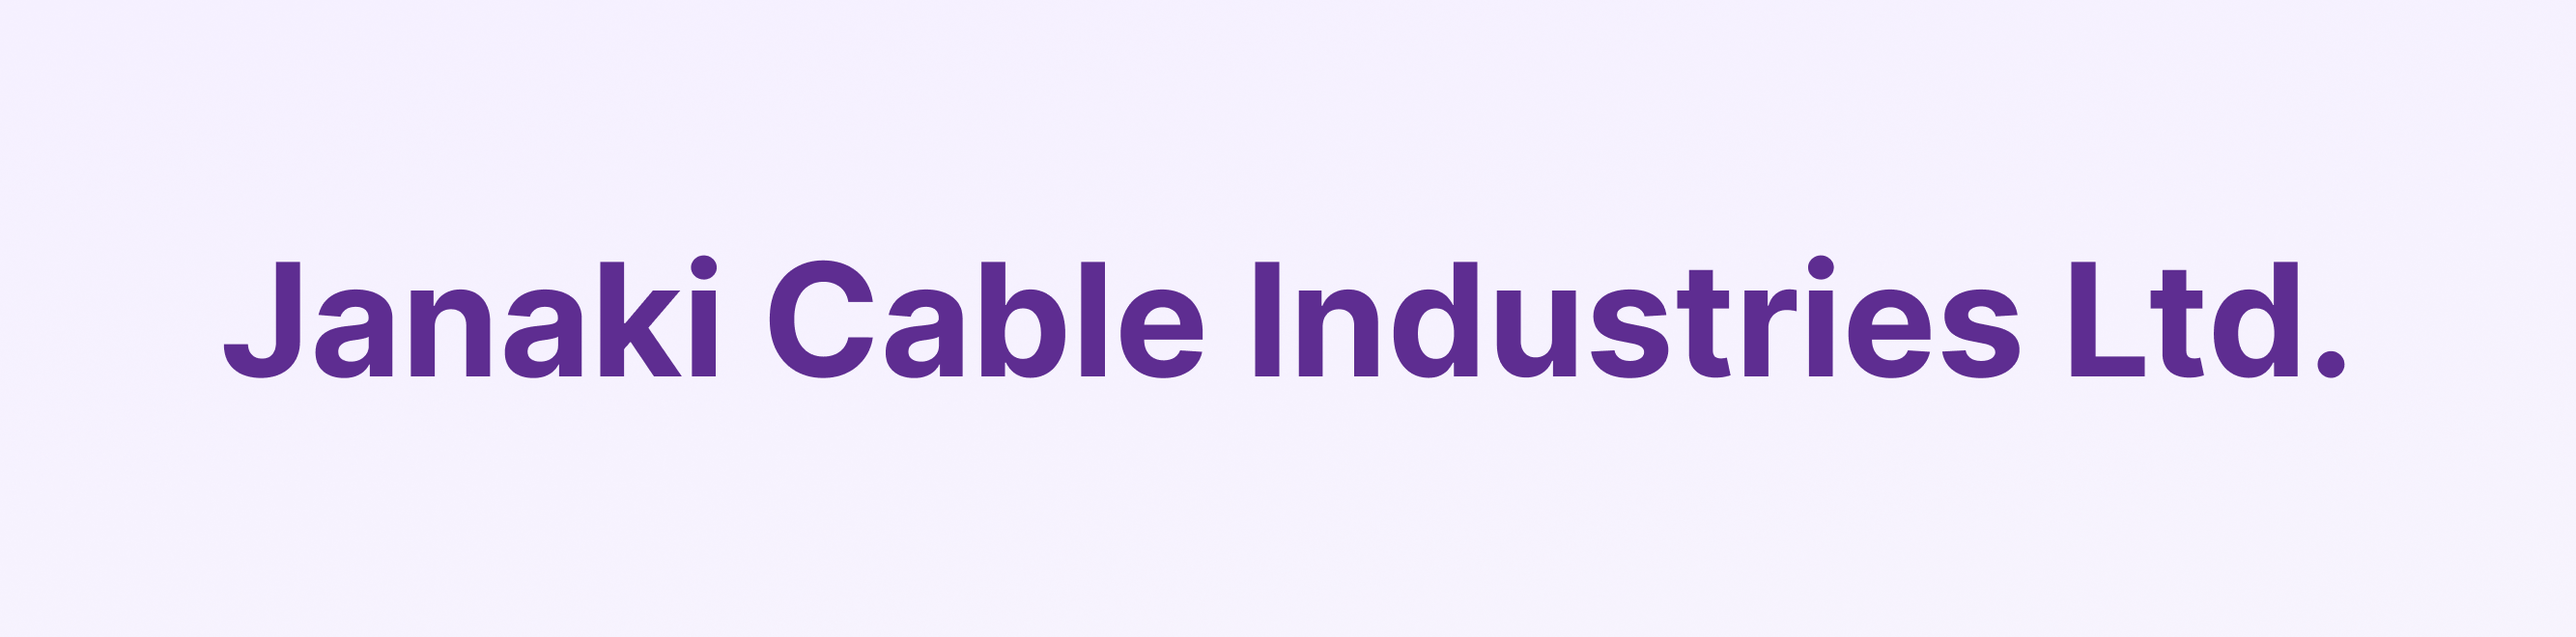
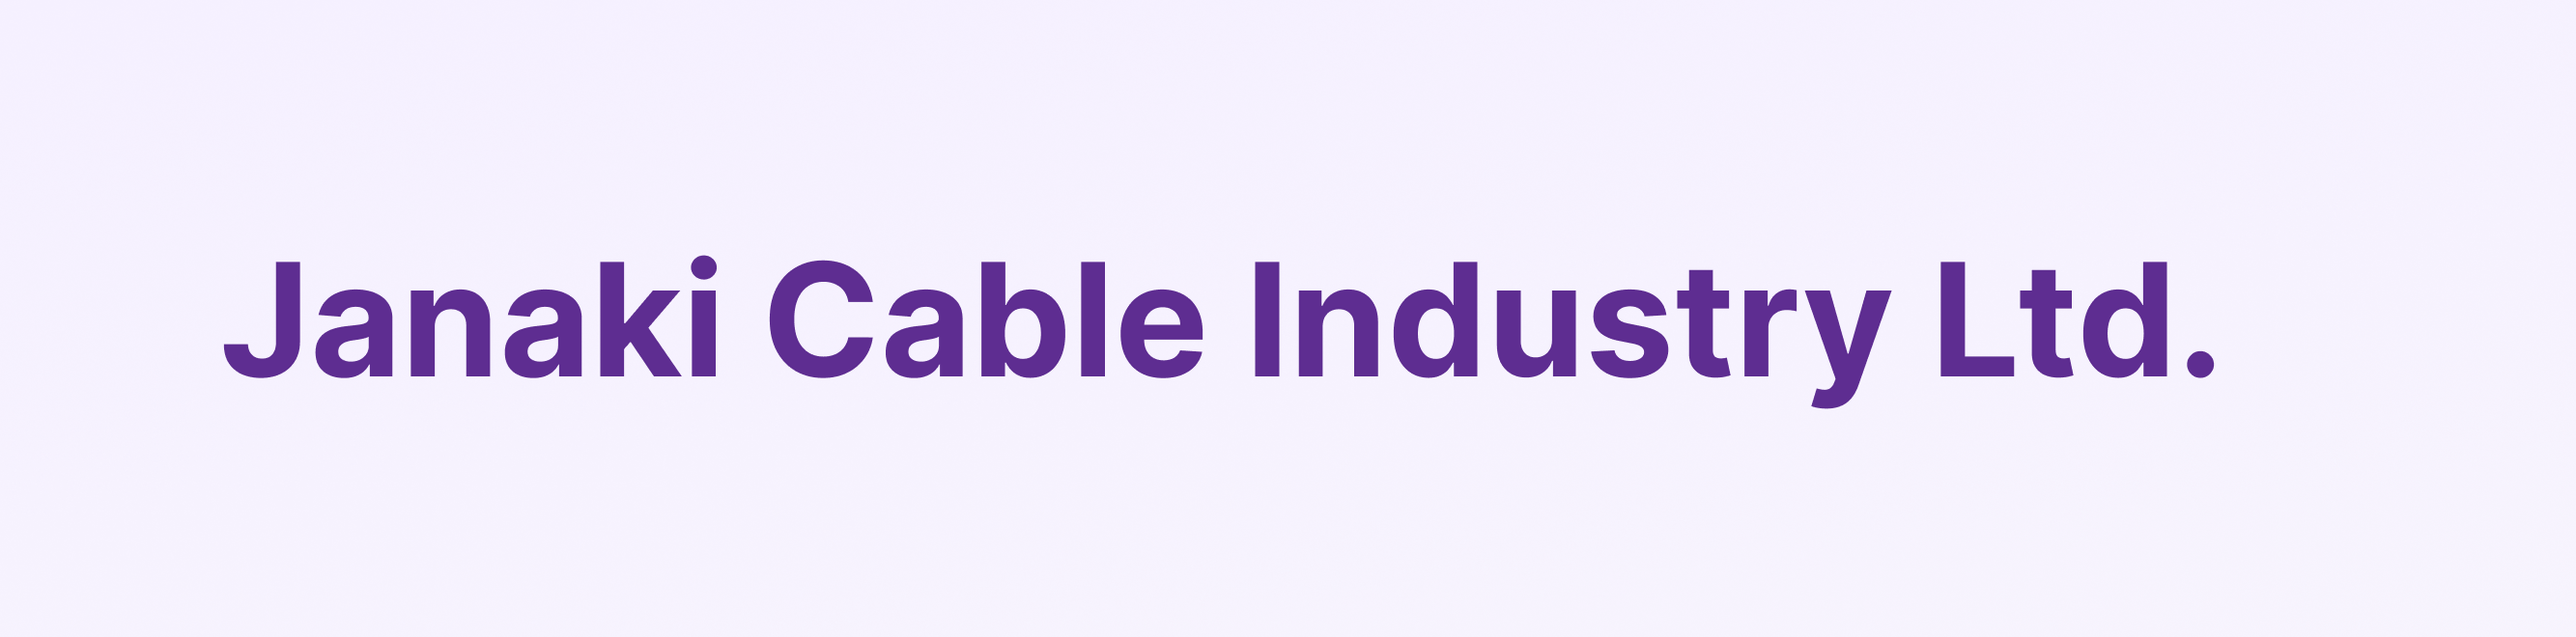
changed janaki cable industries to janaki cable industry also updated the pitchdeck

Changed region(s): [[0.6847, 0.3939, 0.9336, 0.6364], [0.6847, 0.3939, 0.7158, 0.4545]]

diff --git a/frontend/src/app/Notices/JanakiCableIndustries/page.tsx b/frontend/src/app/Notices/JanakiCableIndustries/page.tsx
@@ -15,7 +15,7 @@ export default function JanakiCableIndustriesPage() {
           <div className="flex items-start md:items-center justify-between gap-4 flex-col md:flex-row">
             <div>
               <h1 className="text-[#35115F] text-[1.6rem] md:text-[2.1rem] font-semibold">
-               Janaki Cable Industries Ltd.
+               Janaki Cable Industry Ltd.
               </h1>
               <p className="text-[#666] mt-2 text-[0.95rem] md:text-[1rem]">
                 Download the pitch deck and investor form for this investment.
@@ -54,7 +54,7 @@ export default function JanakiCableIndustriesPage() {
 
               <div className="w-full">
                 <h2 className="text-[#35115F] text-[1.25rem] md:text-[1.4rem] font-semibold">
-                  Janaki Cable Industries Ltd.
+                  Janaki Cable Industry Ltd.
                 </h2>
                 <p className="text-[#666] mt-1 text-[0.95rem]">
                   Investor documents are available below for download.
@@ -71,11 +71,11 @@ export default function JanakiCableIndustriesPage() {
                 Pitch Deck (PDF)
               </h2>
               <p className="text-[#666] mt-2 text-[0.95rem]">
-                Download our latest pitch deck for Janaki Cable Industries Ltd.
+                Download our latest pitch deck for Janaki Cable Industry Ltd.
               </p>
 
               <a
-                href="https://laxmishreeinvestment.com/downloads/janakicableindustries-pitchdeck.pdf"
+                href="https://laxmishreeinvestment.com/downloads/janakicableindustry-pitchdeck.pdf"
                 target="_blank"
                 rel="noreferrer"
                 download

diff --git a/frontend/src/app/Investments/page.tsx b/frontend/src/app/Investments/page.tsx
@@ -117,10 +117,10 @@ const investments = [
   },
   {
     logoUrl: "Invested_Company_Logo/janakicableindustries.png",
-    companyName: "Janaki Cable Industries Ltd.",
+    companyName: "Janaki Cable Industry Ltd.",
     description: "Strengthening Nepal’s electrical infrastructure through durable cable manufacturing, innovation in energy transmission, and commitment to quality, safety, and sustainable industrial progress.",
     readMoreUrl: "https://janakicable.com/",
-    pdfFileName: "janaki-cable-industries.pdf"
+    pdfFileName: "janaki-cable-industry.pdf"
   }
 
 ];

diff --git a/frontend/src/app/Notices/page.tsx b/frontend/src/app/Notices/page.tsx
@@ -85,7 +85,7 @@ export default function Notices() {
 },
 
 {
-  title: "Janaki Cable Industries Ltd.",
+  title: "Janaki Cable Industry Ltd.",
   href: "/Notices/JanakiCableIndustries",
   imageSrc: "/Notices_logo/janakicableindustries.png",
 },
